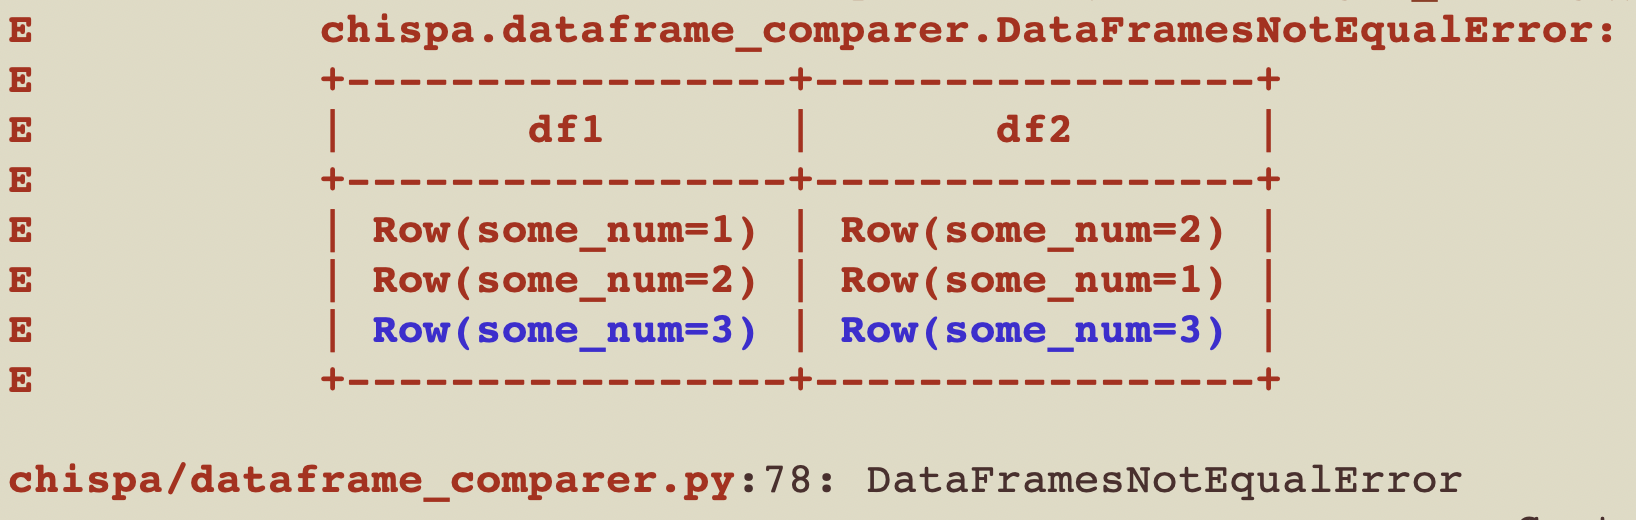
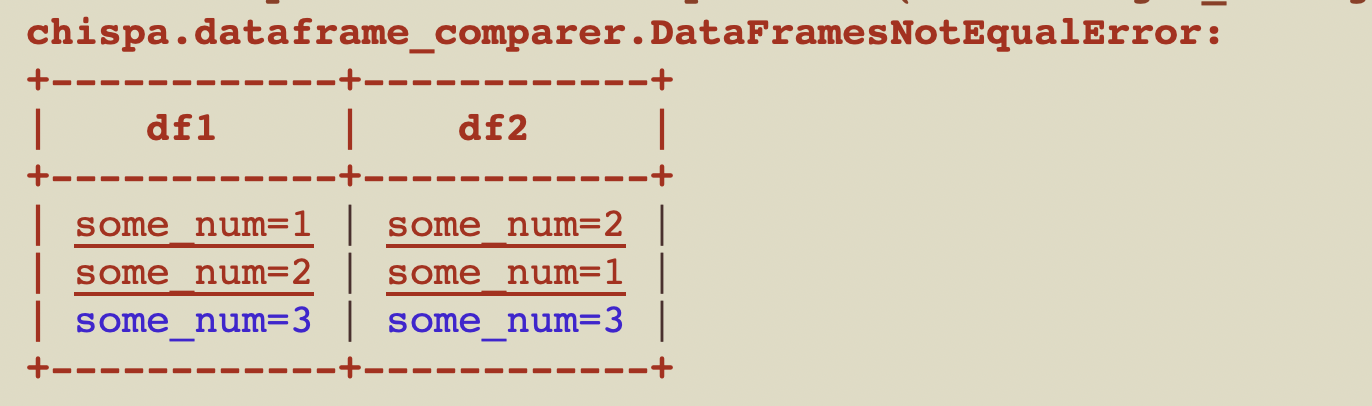
add new custom formatter to readme

diff --git a/chispa/rows_comparer.py b/chispa/rows_comparer.py
@@ -27,11 +27,11 @@ def assert_basic_rows_equality(rows1, rows2, underline_cells=False, formats=Defa
                 for r1_field, r2_field in r_zipped:
                     if r1[r1_field] != r2[r2_field]:
                         all_rows_equal = False
-                        r1_string.append(format_string(f"{r1_field}='{r1[r1_field]}'", formats.mismatched_cells))
-                        r2_string.append(format_string(f"{r2_field}='{r2[r2_field]}'", formats.mismatched_cells))
+                        r1_string.append(format_string(f"{r1_field}={r1[r1_field]}", formats.mismatched_cells))
+                        r2_string.append(format_string(f"{r2_field}={r2[r2_field]}", formats.mismatched_cells))
                     else:
-                        r1_string.append(format_string(f"{r1_field}='{r1[r1_field]}'", formats.matched_cells))
-                        r2_string.append(format_string(f"{r2_field}='{r2[r2_field]}'", formats.matched_cells))
+                        r1_string.append(format_string(f"{r1_field}={r1[r1_field]}", formats.matched_cells))
+                        r2_string.append(format_string(f"{r2_field}={r2[r2_field]}", formats.matched_cells))
                 r1_res = ", ".join(r1_string)
                 r2_res = ", ".join(r2_string)
 
@@ -64,11 +64,11 @@ def assert_generic_rows_equality(rows1, rows2, row_equality_fun, row_equality_fu
             for r1_field, r2_field in r_zipped:
                 if r1[r1_field] != r2[r2_field]:
                     all_rows_equal = False
-                    r1_string.append(format_string(f"{r1_field}='{r1[r1_field]}'", formats.mismatched_cells))
-                    r2_string.append(format_string(f"{r2_field}='{r2[r2_field]}'", formats.mismatched_cells))
+                    r1_string.append(format_string(f"{r1_field}={r1[r1_field]}", formats.mismatched_cells))
+                    r2_string.append(format_string(f"{r2_field}={r2[r2_field]}", formats.mismatched_cells))
                 else:
-                    r1_string.append(format_string(f"{r1_field}='{r1[r1_field]}'", formats.matched_cells))
-                    r2_string.append(format_string(f"{r2_field}='{r2[r2_field]}'", formats.matched_cells))
+                    r1_string.append(format_string(f"{r1_field}={r1[r1_field]}", formats.matched_cells))
+                    r2_string.append(format_string(f"{r2_field}={r2[r2_field]}", formats.matched_cells))
             r1_res = ", ".join(r1_string)
             r2_res = ", ".join(r2_string)
 

diff --git a/tests/test_readme_examples.py b/tests/test_readme_examples.py
@@ -19,7 +19,7 @@ spark = (SparkSession.builder
 
 
 def describe_column_equality():
-    def it_removes_non_word_characters_short():
+    def test_removes_non_word_characters_short():
         data = [
             ("jo&&se", "jose"),
             ("**li**", "li"),
@@ -31,7 +31,7 @@ def describe_column_equality():
         assert_column_equality(df, "clean_name", "expected_name")
 
 
-    def it_removes_non_word_characters_nice_error():
+    def test_remove_non_word_characters_nice_error():
         data = [
             ("matt7", "matt"),
             ("bill&", "bill"),
@@ -40,6 +40,7 @@ def describe_column_equality():
         ]
         df = spark.createDataFrame(data, ["name", "expected_name"])\
             .withColumn("clean_name", remove_non_word_characters(F.col("name")))
+        # assert_column_equality(df, "clean_name", "expected_name")
         with pytest.raises(ColumnsNotEqualError) as e_info:
             assert_column_equality(df, "clean_name", "expected_name")
 
@@ -95,6 +96,7 @@ def describe_dataframe_equality():
     def ignore_row_order():
         df1 = spark.createDataFrame([(1,), (2,), (3,)], ["some_num"])
         df2 = spark.createDataFrame([(2,), (1,), (3,)], ["some_num"])
+        # assert_df_equality(df1, df2)
         assert_df_equality(df1, df2, ignore_row_order=True)
 
 

diff --git a/README.md b/README.md
@@ -303,23 +303,42 @@ nan2 = float('nan')
 nan1 == nan2 # False
 ```
 
-Pandas, a popular DataFrame library, does consider NaN values to be equal by default.
-
-This library requires you to set a flag to consider two NaN values to be equal.
+pandas considers NaN values to be equal by default, but this library requires you to set a flag to consider two NaN values to be equal.
 
 ```python
 assert_df_equality(df1, df2, allow_nan_equality=True)
 ```
 
-### Underline differences within rows
+## Customize formatting
 
-You can choose to underline columns within a row that are different by setting `underline_cells` to True, i.e.:
+*Available in chispa 0.10+*.
+
+You can specify custom formats for the printed error messages as follows:
 
 ```python
-assert_df_equality(df1, df2, underline_cells=True)
+@dataclass
+class MyFormats:
+    mismatched_rows = ["light_yellow"]
+    matched_rows = ["cyan", "bold"]
+    mismatched_cells = ["purple"]
+    matched_cells = ["blue"]
+
+assert_basic_rows_equality(df1.collect(), df2.collect(), formats=MyFormats())
 ```
 
-![DfsNotEqualUnderlined](https://github.com/MrPowers/chispa/blob/main/images/df_not_equal_underlined.png)
+You can also define these formats in `conftest.py` and inject them via a fixture:
+
+```python
+@pytest.fixture()
+def my_formats():
+    return MyFormats()
+
+def test_shows_assert_basic_rows_equality(my_formats):
+  ...
+  assert_basic_rows_equality(df1.collect(), df2.collect(), formats=my_formats)
+```
+
+![custom_formats](https://github.com/MrPowers/chispa/blob/main/images/custom_formats.png)
 
 ## Approximate column equality
 
